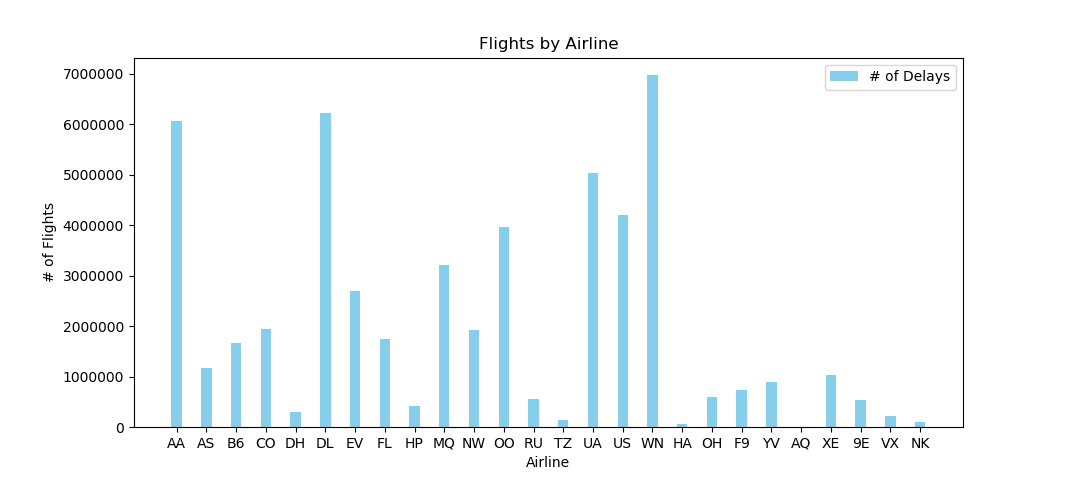
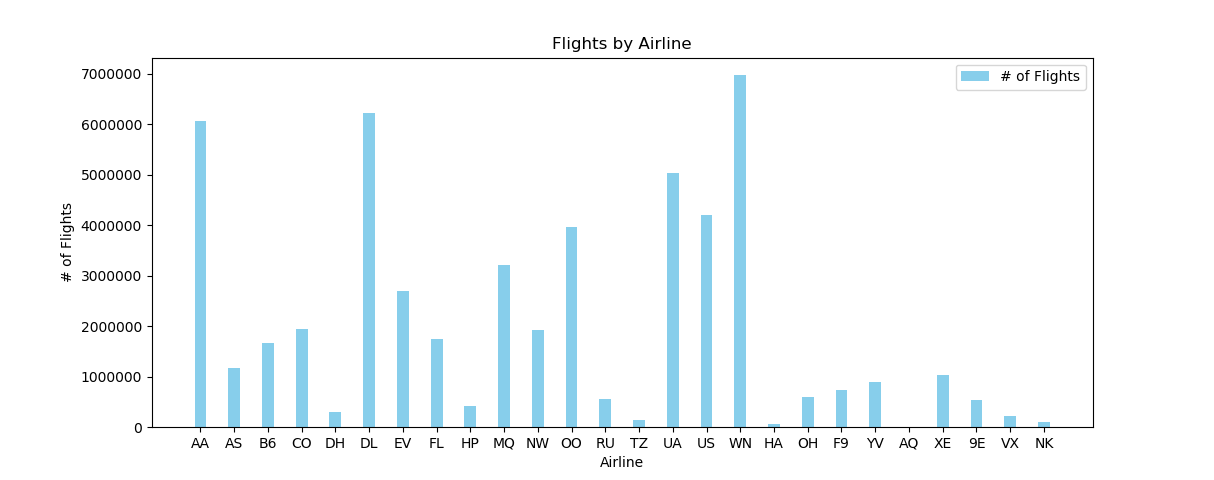
12/5

diff --git a/static/main.css b/static/main.css
@@ -1,10 +1,24 @@
 .main-content {
-  margin: 20px;
+  margin: 0;
+  /* padding: 20px; */
+  position: absolute;
+  top: 100px;
+  left: 20px;
+  /* text-align: center; */
+}
 
+body, html {
+  height: 100%;
+}
+
+.bg-img {
   background-image: url("bg.jpg");
+  filter: blur(20px);
+  height: 100%;
   background-repeat: no-repeat;
-  background-position: right top;
+  background-position: center;
   background-attachment: fixed;
+  background-size: cover;
 }
 
 #homeTitle {

diff --git a/templates/graphPage.html b/templates/graphPage.html
@@ -6,7 +6,10 @@
   <body>
     {% include "navbar.html" %}
 
-    <div class="main-content" id="graphPageCont">
+    <div class="bg-img">
+    </div>
+
+    <div class="main-content" id="graphPageCont" style="text-align: center; width: 100%;">
       <h1 id="pageTitle">{{title}}</h1>
       <img src="{{url_for('static', filename=img+'.png')}}" alt="No Graph">
     </div>

diff --git a/templates/home.html b/templates/home.html
@@ -5,8 +5,11 @@
 
   <body>
     {% include "navbar.html" %}
-    
-    <div class="main-content">
+
+    <div class="bg-img">
+    </div>
+
+    <div class="main-content" style="width: 100%;">
       <h1 id="homeTitle">Data on Airline Flight Delays in the USA</h1>
     </div>
 

diff --git a/templates/byDelays.html b/templates/byDelays.html
@@ -6,6 +6,9 @@
   <body>
     {% include "navbar.html" %}
 
+    <div class="bg-img">
+    </div>
+
     <div class="main-content">
       {% if airport == "!!!" %}
         <h1>Select an airport to view data on flight delays</h1>

diff --git a/templates/byFlights.html b/templates/byFlights.html
@@ -6,6 +6,9 @@
   <body>
     {% include "navbar.html" %}
 
+    <div class="bg-img">
+    </div>
+
     <div class="main-content">
       {% if airport == "!!!" %}
         <h1>Select an airport to view data on flight counts</h1>

diff --git a/templates/byCancelled.html b/templates/byCancelled.html
@@ -6,6 +6,9 @@
   <body>
     {% include "navbar.html" %}
 
+    <div class="bg-img">
+    </div>
+
     <div class="main-content">
       <h4>The airline with the highest percentage of cancelled flights is {{topAirline}}</h4>
 

diff --git a/templates/byWeather.html b/templates/byWeather.html
@@ -6,6 +6,9 @@
   <body>
     {% include "navbar.html" %}
 
+    <div class="bg-img">
+    </div>
+
     <div class="main-content">
       <h4>{{topAirport}} has the most weather delays of any airport</h4>
 

diff --git a/templates/research.html b/templates/research.html
@@ -6,6 +6,9 @@
   <body>
     {% include "navbar.html" %}
 
+    <div class="bg-img">
+    </div>
+
     <div class="main-content">
       <h1>An Explanation of the Data</h1>
       <p>

diff --git a/airline_fx.py b/airline_fx.py
@@ -100,10 +100,11 @@ def getDelayDataForAirport(airportData, allData):
     for airline,raws in rawVals.items():
         percents[airline] = (float(raws[1])/float(raws[0])) * 100.0
 
+    sorte = sorted(percents.items(), key=lambda kv: kv[1])
     res = []
     matcher = getAirlinesDict(allData)
 
-    for k,v in percents.items():
+    for k,v in sorte.items():
         name = matcher[k]
         stri = "%s (%s)\t[%i %% of flights delayed]" % (name, k, v)
         res.append(stri)
@@ -122,10 +123,11 @@ def getFlightDataForAirport(airportData, allData):
         else:
             rawVals[dp["carrier"]["code"]]= dp["statistics"]["flights"]["total"]
 
+    sorte = sorted(rawVals.items(), key=lambda kv: kv[1])
     res = []
     matcher = getAirlinesDict(allData)
 
-    for k,v in rawVals.items():
+    for k,v in sorte.items():
         name = matcher[k]
         stri = "%s (%s)\t[%i flights]" % (name, k, v)
         res.append(stri)

diff --git a/genGraphs.py b/genGraphs.py
@@ -25,16 +25,16 @@ ind = np.arange(len(xs))  # the x locations for the groups
 width = 0.35  # the width of the bars
 
 fig, ax = plt.subplots()
-# rects1 = ax.bar(ind, ys, width,
-#                 color='SkyBlue', label='# of Delays')
-#
-# ax.set_ylabel('# of Flights')
-# ax.set_xlabel('Airline')
-# ax.set_title('Flights by Airline')
-# ax.set_xticks(ind)
-# ax.set_xticklabels(xs)
-# ax.legend()
+rects1 = ax.bar(ind, ys, width,
+                color='SkyBlue', label='# of Flights')
 
-depi = ax.pie(ys, labels=xs)
+ax.set_ylabel('# of Flights')
+ax.set_xlabel('Airline')
+ax.set_title('Flights by Airline')
+ax.set_xticks(ind)
+ax.set_xticklabels(xs)
+ax.legend()
+
+# depi = ax.pie(ys, labels=xs)
 
 plt.show()
